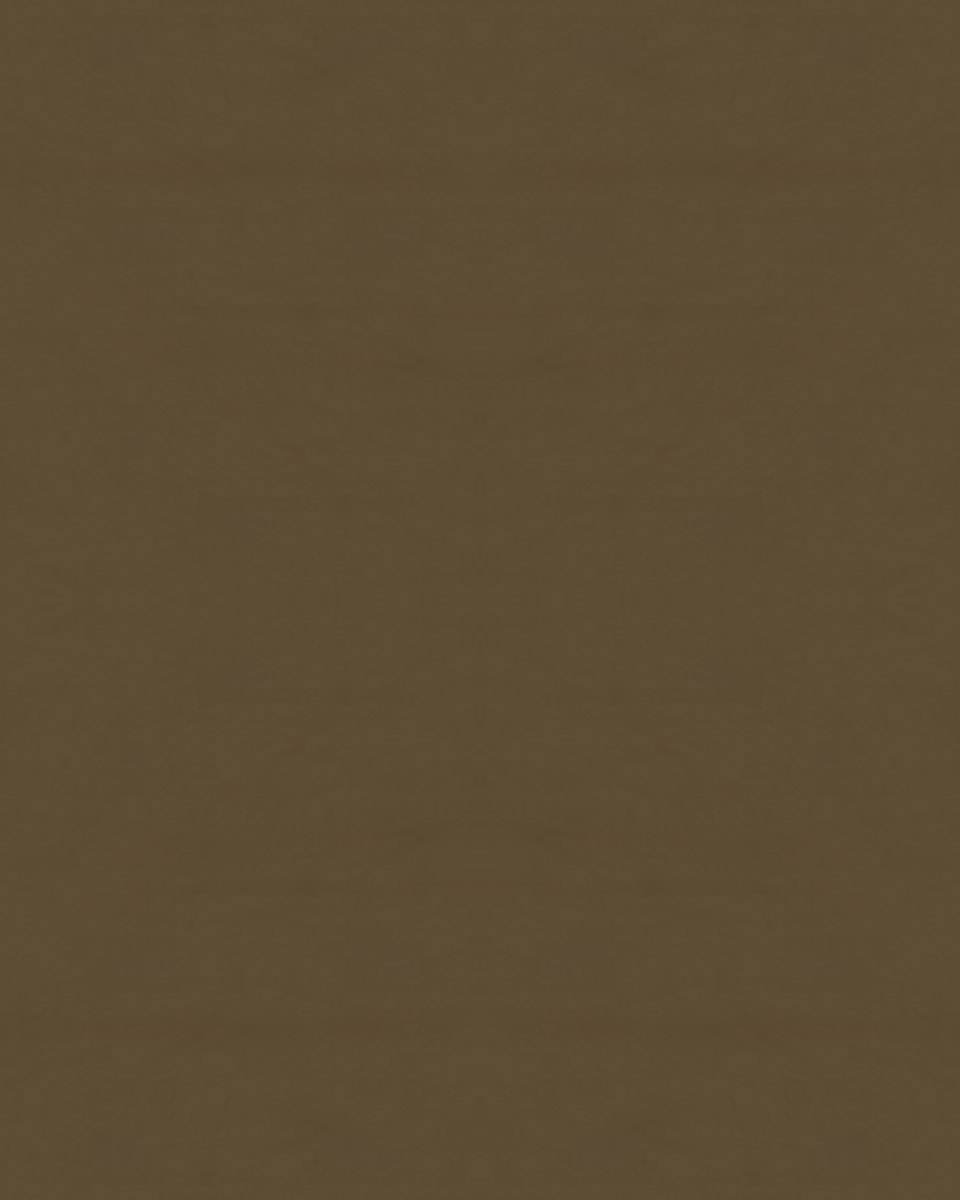
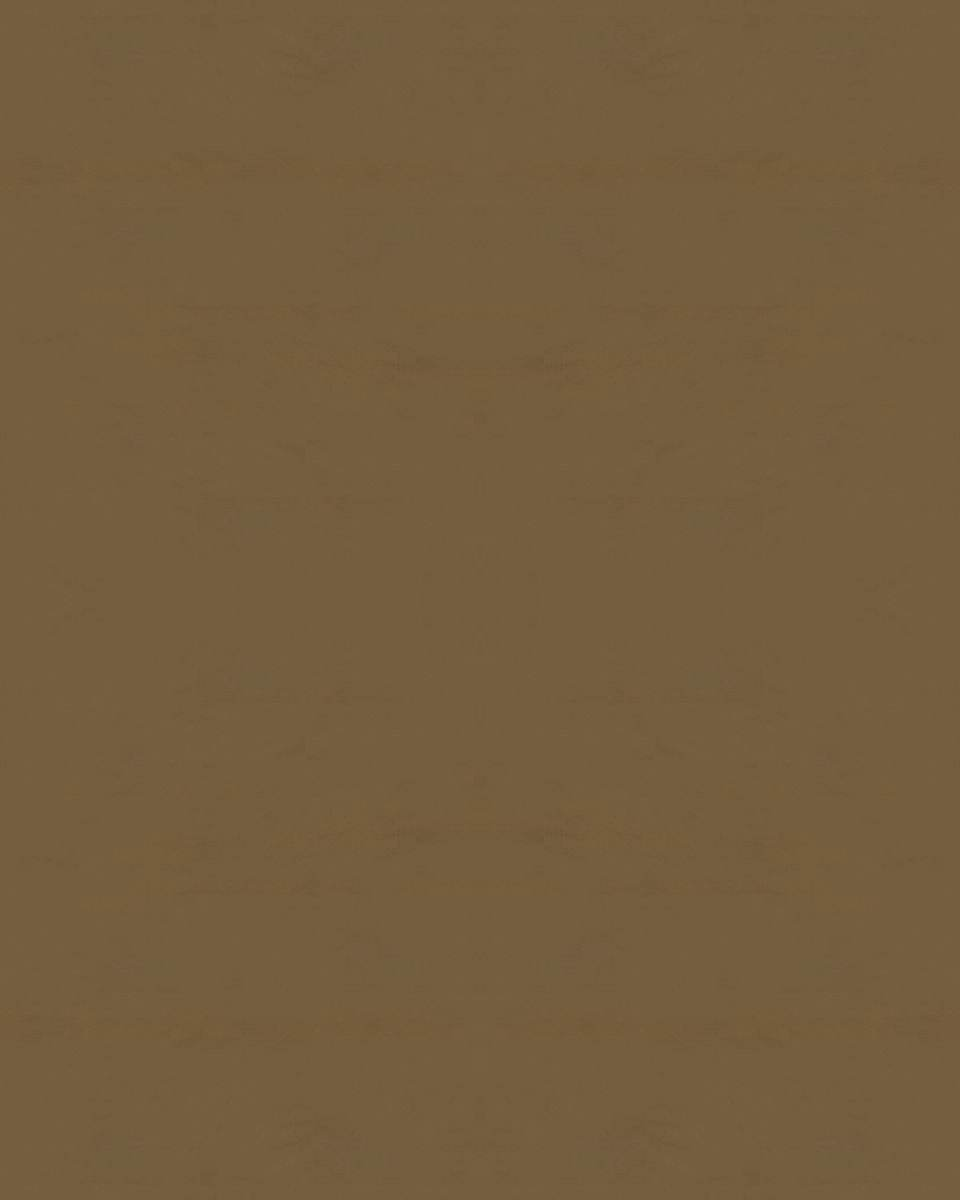
Brighten dark mode parchment
Claude-Session: https://claude.ai/code/session_01M4WdKLR955Z7F5o1w6MzAo

Changed region(s): [[0.0, 0.0, 1.0, 1.0]]

diff --git a/app/globals.css b/app/globals.css
@@ -15,14 +15,14 @@
   --radius: 10px;
 }
 :root[data-theme="dark"] {
-    --paper: #2b2113;
+    --paper: #3a2d1a;
     --tex-page: url('/parch-page-dark.jpg');
     --tex-panel: url('/parch-panel-dark.jpg');
-    --tex-note: url('/parch-note-dark.jpg'); --note-board: #54401f;
-    --paper-2: #3c2d19;
+    --tex-note: url('/parch-note-dark.jpg'); --note-board: #66502e;
+    --paper-2: #4d3b22;
     --ink: #f3e6d3;
     --ink-soft: #c2a98f;
-    --line: #6b4a2a;
+    --line: #7d5a33;
     --wine: #ee7d8c;
     --wine-soft: #3d1920;
     --gold: #e0b030;
@@ -32,14 +32,14 @@
   }
 @media (prefers-color-scheme: dark) {
   :root:not([data-theme="light"]) {
-    --paper: #2b2113;
+    --paper: #3a2d1a;
     --tex-page: url('/parch-page-dark.jpg');
     --tex-panel: url('/parch-panel-dark.jpg');
-    --tex-note: url('/parch-note-dark.jpg'); --note-board: #54401f;
-    --paper-2: #3c2d19;
+    --tex-note: url('/parch-note-dark.jpg'); --note-board: #66502e;
+    --paper-2: #4d3b22;
     --ink: #f3e6d3;
     --ink-soft: #c2a98f;
-    --line: #6b4a2a;
+    --line: #7d5a33;
     --wine: #ee7d8c;
     --wine-soft: #3d1920;
     --gold: #e0b030;
@@ -152,10 +152,10 @@ summary { cursor: pointer; font-weight: 600; color: var(--wine); }
   --note: #eddab0; --note-ink: #2a1a14; --note-soft: #5e4837; --note-line: #c9ab72;
 }
 :root[data-theme="dark"] { --velvet: #3d0a15; --velvet-2: #2e0710; --frame: #b88a14; --frame-2: #7a5a0c;
-    --note: #3a2b1b; --note-ink: #f3e6d3; --note-soft: #c2a98f; --note-line: #4a3326; }
+    --note: #4d3b24; --note-ink: #f3e6d3; --note-soft: #c2a98f; --note-line: #4a3326; }
 @media (prefers-color-scheme: dark) {
   :root:not([data-theme="light"]) { --velvet: #3d0a15; --velvet-2: #2e0710; --frame: #b88a14; --frame-2: #7a5a0c;
-    --note: #3a2b1b; --note-ink: #f3e6d3; --note-soft: #c2a98f; --note-line: #4a3326; }
+    --note: #4d3b24; --note-ink: #f3e6d3; --note-soft: #c2a98f; --note-line: #4a3326; }
 }
 .board {
   --k: .72; /* scale of the ornate frame */
